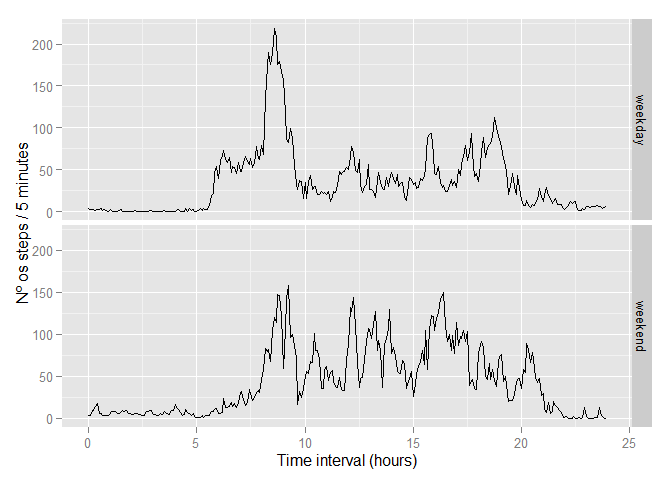
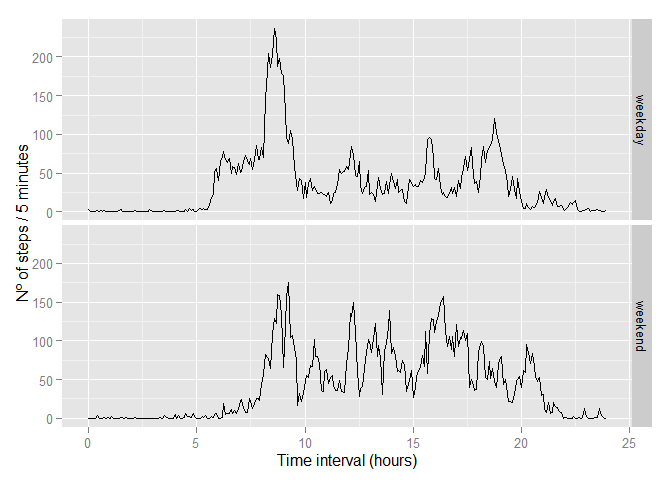
- Code changes to eliminate "merge" function on chunk 5; - Minor corrections

diff --git a/PA1_template.html b/PA1_template.html
@@ -129,10 +129,13 @@ data$wDay &lt;- weekdays(data$date, abbreviate=TRUE)
 ## Calculating the mean for every weekday and filling missing data.
 wDayMean &lt;- aggregate(steps~wDay+interval, data, mean, na.rm=TRUE)
 dataFill &lt;- data
-missSteps &lt;- merge(data[missing,c(&quot;interval&quot;,&quot;wDay&quot;)],
-                   wDayMean[,c(&quot;interval&quot;,&quot;wDay&quot;,&quot;steps&quot;)],all.x=TRUE, sort=FALSE)
-## The use of sort=FALSE is essencial to make the two vectors below match.
-dataFill[missing,&quot;steps&quot;] &lt;- missSteps$steps
+for(i in 1:nrow(dataFill)) {
+      if(is.na(dataFill[i,&quot;steps&quot;])) {
+            index &lt;- wDayMean$wDay == dataFill[i,&quot;wDay&quot;] &amp;
+                  wDayMean$interval == dataFill[i,&quot;interval&quot;]
+            dataFill[i,&quot;steps&quot;] &lt;- wDayMean[index,&quot;steps&quot;]
+      }
+}
 
 ## Making histogram
 totalSteps &lt;- tapply(dataFill$steps, dataFill$date, sum)
@@ -141,7 +144,7 @@ hist(totalSteps, col=&quot;blue&quot;, xlab=&quot;Total steps per day (missing d
[1 lines of base64/hex data omitted]
 <pre class="r"><code>meanSteps &lt;- as.integer(mean(totalSteps))
 medianSteps &lt;- as.integer(median(totalSteps))</code></pre>
-<p>This new histogram looks very much like the previous one and it shows us that, after filling missing values with the above-mentioned strategy, the daily total of steps still has its most common value between 10000 and 15000. The mean number becomes 10821 and the median changed to 11015. A shift in those values was expected, since, in the new dataset, a certain weekday may have been “favored” over the others, so to speak.</p>
+<p>This new histogram looks very much like the previous one and it shows us that, after filling missing values with the above-mentioned strategy, the daily total of steps still has its most common value between 10000 and 15000. The mean number becomes 10821 and the median changed to 11015. A shift in those values was expected, since, in the new dataset, the proportion between weekdays has changed.</p>
 </div>
 <div id="are-there-differences-in-activity-patterns-between-weekdays-and-weekends" class="section level3">
 <h3>Are there differences in activity patterns between weekdays and weekends?</h3>
@@ -155,10 +158,11 @@ dataFill$wDay.wEnd &lt;- as.factor(dataFill$wDay.wEnd)
 # And now, the plot!
 plotData&lt;-aggregate(steps ~ interval+wDay.wEnd, data=dataFill, mean)
 qplot(interval, steps, data=plotData, geom=&quot;line&quot;, xlab=&quot;Time interval (hours)&quot;,
-      ylab=&quot;Nº os steps / 5 minutes&quot;) +
+      ylab=&quot;Nº of steps / 5 minutes&quot;) +
       facet_grid(wDay.wEnd~.)</code></pre>
[1 lines of base64/hex data omitted]
-<p>They show a peak number of steps during earlier hours on the weekdays and, for the rest of the day, reduced activity in comparison with the weekends. Just what one would expect from a person who sits all day at an office during the week and is more free to roam around on weekends.</p>
[1 lines of base64/hex data omitted]
+<p>They show a peak number of steps during earlier hours on the weekdays and, for the rest of the day, reduced activity in comparison with the weekends. Just what one would expect from a person who sits all day at an office during the week and is free to roam around on weekends.</p>
+<p>This report was generated on 2015-09-16.</p>
 </div>
 
 

diff --git a/PA1_template.md b/PA1_template.md
@@ -105,10 +105,13 @@ data$wDay <- weekdays(data$date, abbreviate=TRUE)
 ## Calculating the mean for every weekday and filling missing data.
 wDayMean <- aggregate(steps~wDay+interval, data, mean, na.rm=TRUE)
 dataFill <- data
-missSteps <- merge(data[missing,c("interval","wDay")],
-                   wDayMean[,c("interval","wDay","steps")],all.x=TRUE, sort=FALSE)
-## The use of sort=FALSE is essencial to make the two vectors below match.
-dataFill[missing,"steps"] <- missSteps$steps
+for(i in 1:nrow(dataFill)) {
+      if(is.na(dataFill[i,"steps"])) {
+            index <- wDayMean$wDay == dataFill[i,"wDay"] &
+                  wDayMean$interval == dataFill[i,"interval"]
+            dataFill[i,"steps"] <- wDayMean[index,"steps"]
+      }
+}
 
 ## Making histogram
 totalSteps <- tapply(dataFill$steps, dataFill$date, sum)
@@ -123,7 +126,7 @@ meanSteps <- as.integer(mean(totalSteps))
 medianSteps <- as.integer(median(totalSteps))
 ```
 
-This new histogram looks very much like the previous one and it shows us that, after filling missing values with the above-mentioned strategy, the daily total of steps still has its most common value between 10000 and 15000. The mean number becomes 10821 and the median changed to 11015. A shift in those values was expected, since, in the new dataset, a certain weekday may have been "favored" over the others, so to speak.
+This new histogram looks very much like the previous one and it shows us that, after filling missing values with the above-mentioned strategy, the daily total of steps still has its most common value between 10000 and 15000. The mean number becomes 10821 and the median changed to 11015. A shift in those values was expected, since, in the new dataset, the proportion between weekdays has changed.
 
 ### Are there differences in activity patterns between weekdays and weekends?
 
@@ -140,10 +143,12 @@ dataFill$wDay.wEnd <- as.factor(dataFill$wDay.wEnd)
 # And now, the plot!
 plotData<-aggregate(steps ~ interval+wDay.wEnd, data=dataFill, mean)
 qplot(interval, steps, data=plotData, geom="line", xlab="Time interval (hours)",
-      ylab="Nº os steps / 5 minutes") +
+      ylab="Nº of steps / 5 minutes") +
       facet_grid(wDay.wEnd~.)
 ```
 
 ![](PA1_template_files/figure-html/unnamed-chunk-7-1.png) 
 
-They show a peak number of steps during earlier hours on the weekdays and, for the rest of the day, reduced activity in comparison with the weekends. Just what one would expect from a person who sits all day at an office during the week and is more free to roam around on weekends.
+They show a peak number of steps during earlier hours on the weekdays and, for the rest of the day, reduced activity in comparison with the weekends. Just what one would expect from a person who sits all day at an office during the week and is free to roam around on weekends.
+
+This report was generated on 2015-09-16.
